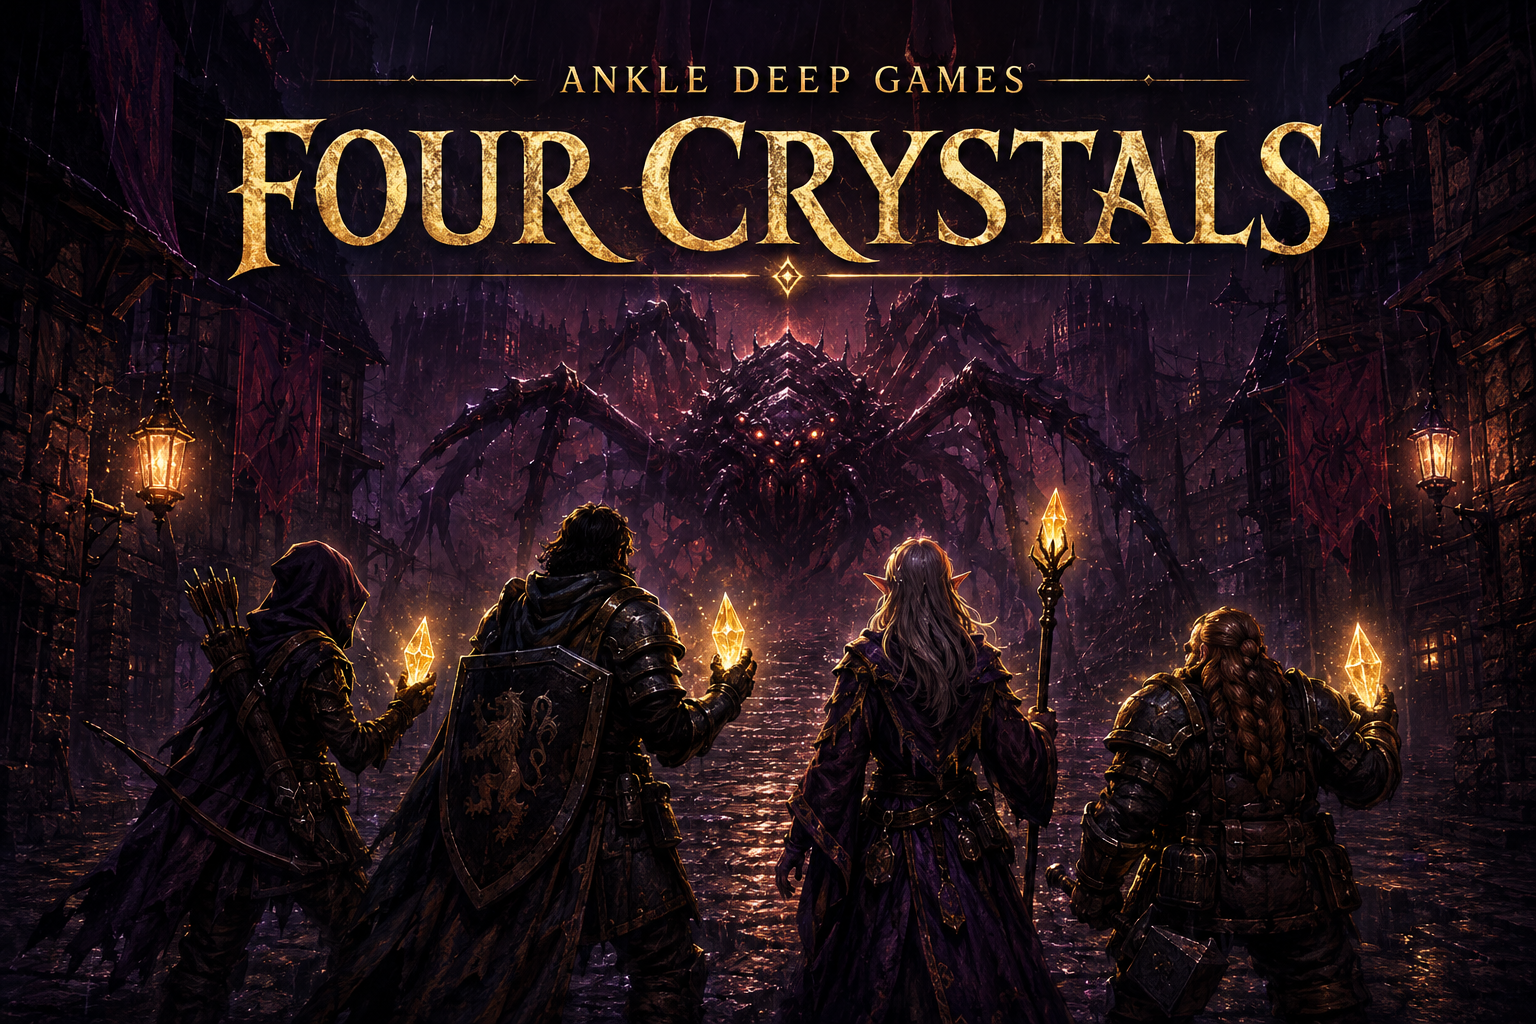
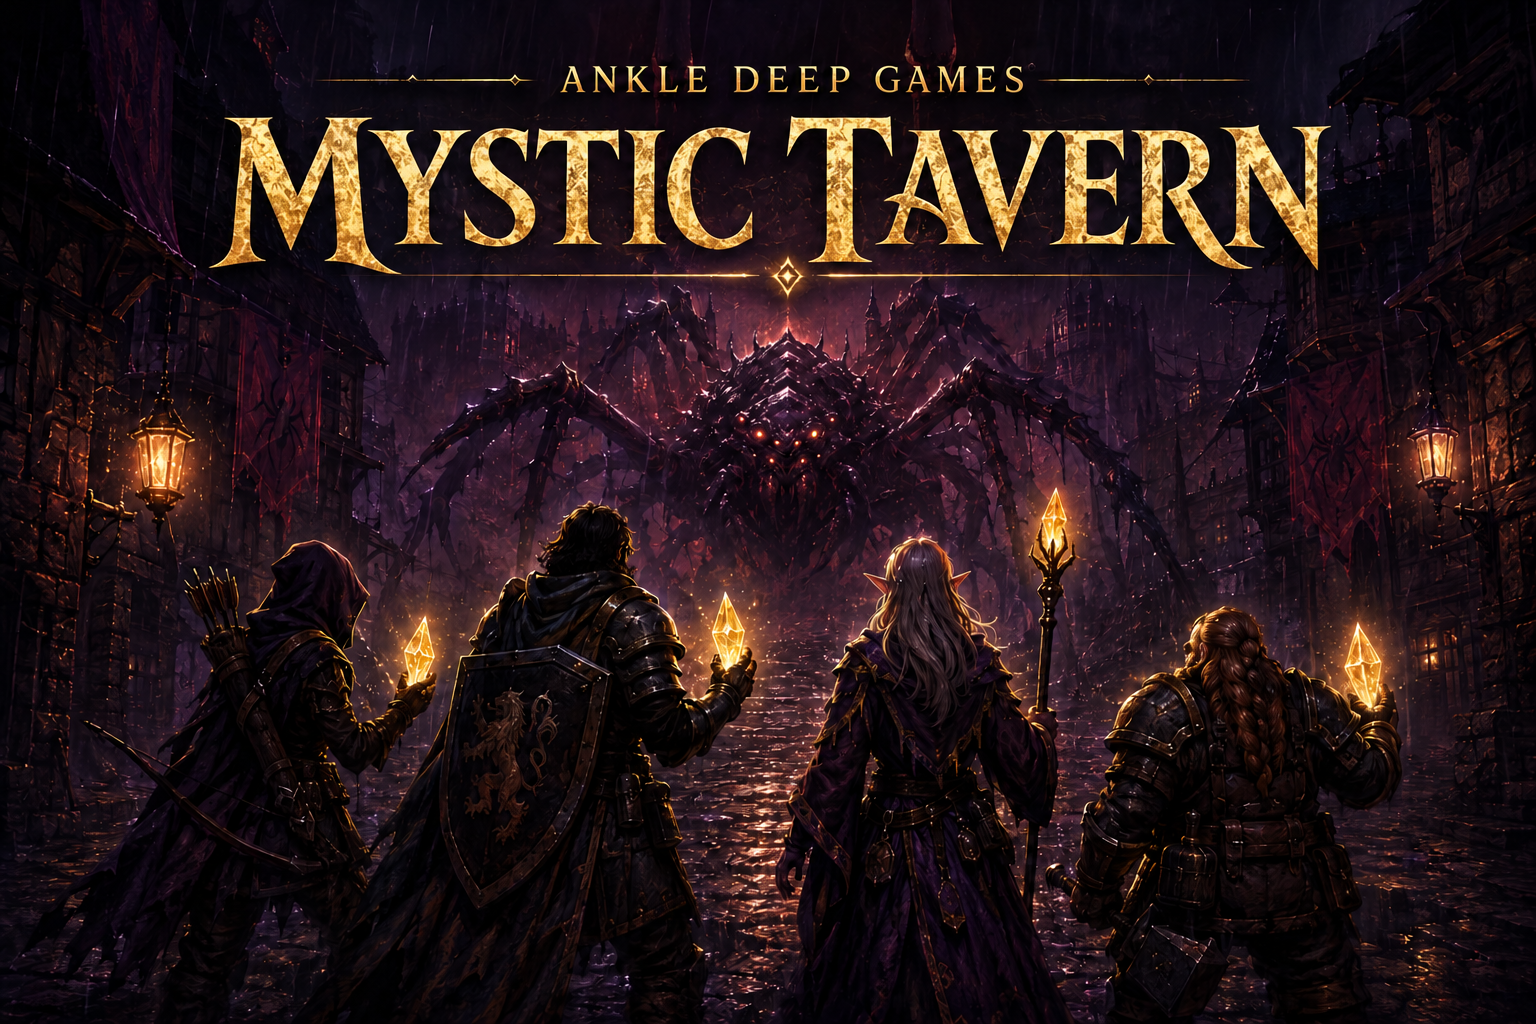
Restore original Mystic Tavern name

diff --git a/apps/web/index.html b/apps/web/index.html
@@ -6,14 +6,14 @@
     <meta name="theme-color" content="#160f19" />
     <meta name="description" content="A four-player cooperative browser RPG tracer bullet." />
     <meta property="og:type" content="website" />
-    <meta property="og:title" content="Ankle Deep Games — Four Crystals" />
+    <meta property="og:title" content="Ankle Deep Games — Mystic Tavern" />
     <meta property="og:description" content="Four players. Simultaneous choices. One shared fate." />
     <meta property="og:image" content="/og.png" />
     <meta name="twitter:card" content="summary_large_image" />
-    <meta name="twitter:title" content="Ankle Deep Games — Four Crystals" />
+    <meta name="twitter:title" content="Ankle Deep Games — Mystic Tavern" />
     <meta name="twitter:description" content="A ten-minute cooperative browser RPG tracer bullet." />
     <meta name="twitter:image" content="/og.png" />
-    <title>Ankle Deep Games — Four Crystals</title>
+    <title>Ankle Deep Games — Mystic Tavern</title>
   </head>
   <body>
     <div id="root"></div>

diff --git a/apps/web/src/App.tsx b/apps/web/src/App.tsx
@@ -111,7 +111,7 @@ function Header({ game, status, onLeave }: { game: GameState | null; status: str
     <header className="topbar">
       <div className="brand-lockup">
         <img src="/assets/logo.png" alt="" />
-        <div><span>Ankle Deep Games</span><strong>FOUR CRYSTALS</strong></div>
+        <div><span>Ankle Deep Games</span><strong>MYSTIC TAVERN</strong></div>
       </div>
       {game && (
         <div className="room-meta">

diff --git a/README.md b/README.md
@@ -1,4 +1,4 @@
-# Ankle Deep Games: Four Crystals
+# Ankle Deep Games: Mystic Tavern
 
 A bare-bones, start-to-finish proof of concept for a simultaneous four-player cooperative browser RPG.
 
